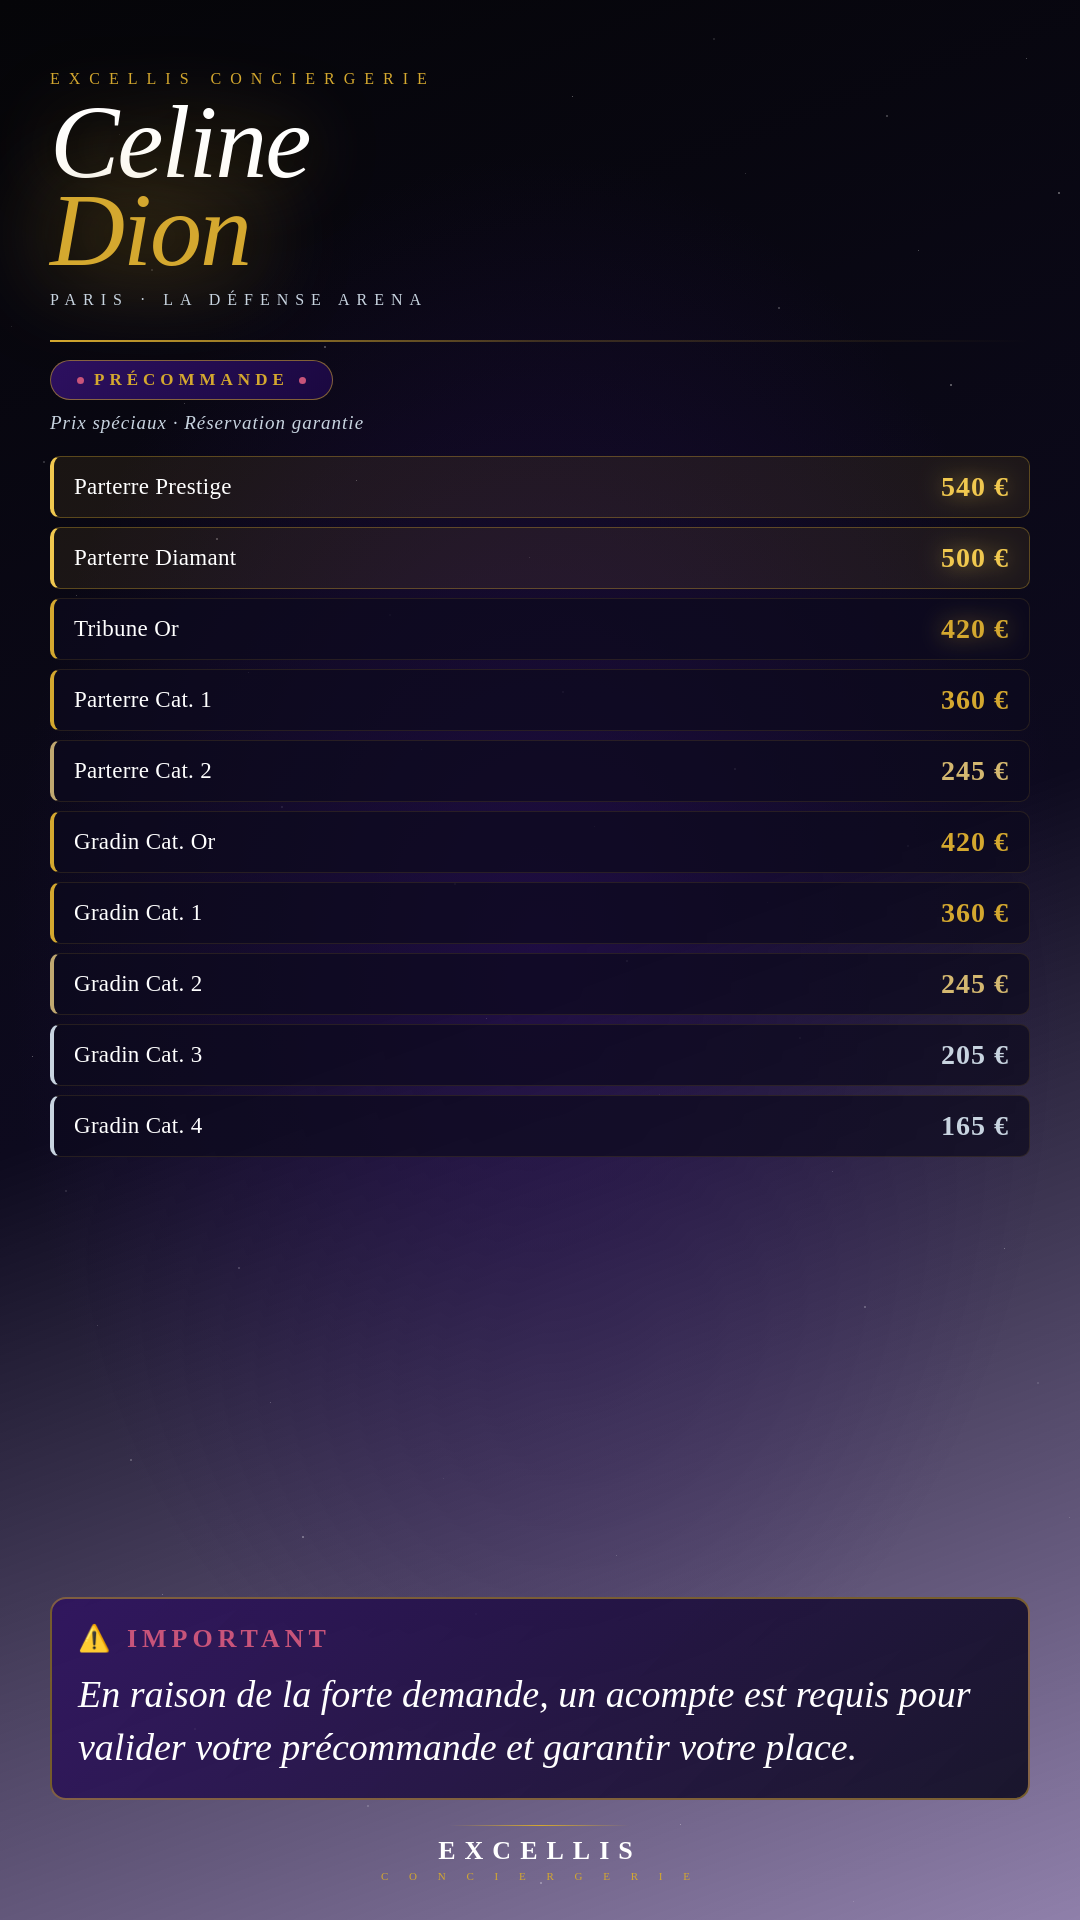
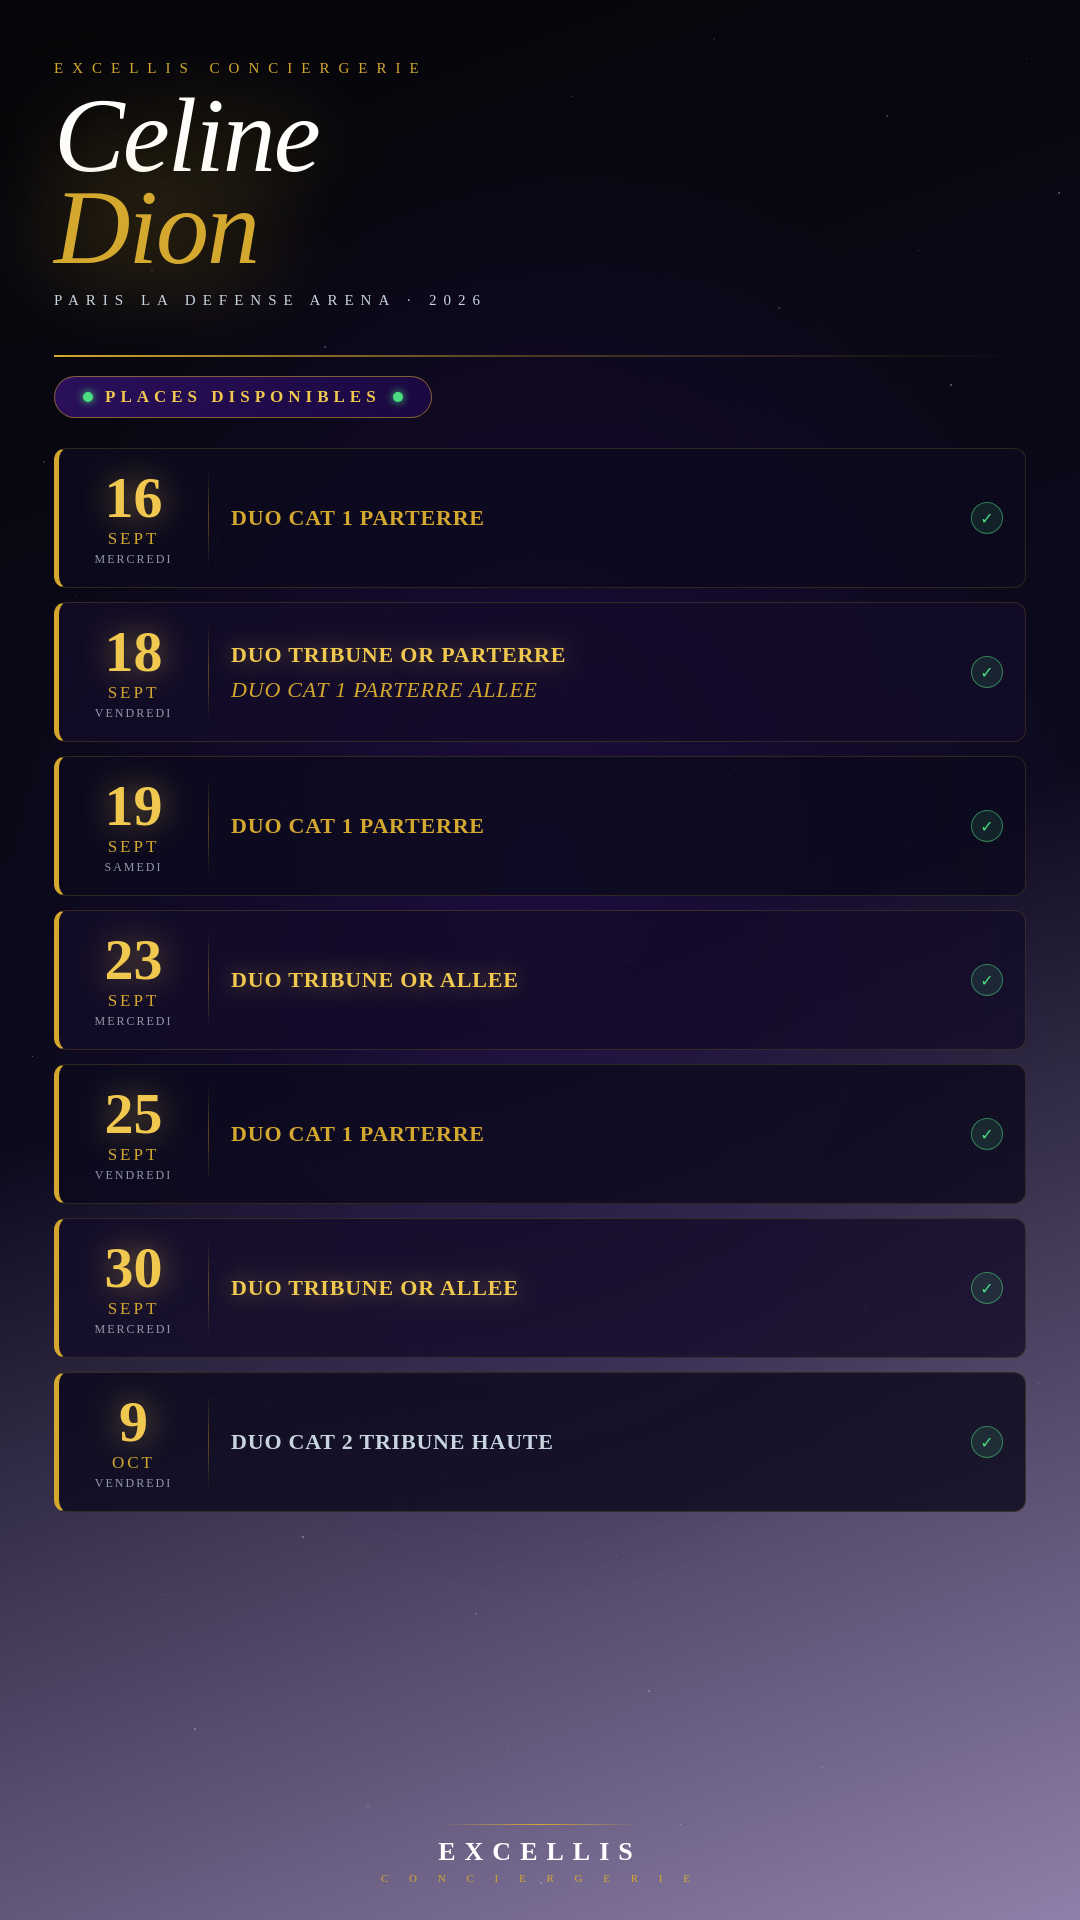
feat: poster Céline Dion places disponibles par date (v6)
Remplace le tableau de prix par les 7 dates avec les types de billets DUO disponibles.

https://claude.ai/code/session_014uMGEqSPpnhtawxAyG3qPw

diff --git a/src/CelineDionPoster.jsx b/src/CelineDionPoster.jsx
@@ -1,7 +1,7 @@
-// CelineDionPoster.jsx — Affiche tarifs précommande v2
+// CelineDionPoster.jsx — Affiche places disponibles v6
 // Format: 1080x1920 portrait
 
-import { AbsoluteFill, staticFile } from "remotion";
+import { AbsoluteFill } from "remotion";
 
 const BLACK   = "#050508";
 const DEEP    = "#0D0A1E";
@@ -10,23 +10,30 @@ const GOLD    = "#D4A82F";
 const GOLD_LT = "#F0C84F";
 const WHITE   = "#FFFFFF";
 const SILVER  = "#C8D4E0";
-const ROSE    = "#C8547A";
+const GREEN   = "#4ADE80";
 
-const prices = [
-  { cat: "Parterre Prestige",  price: "540 €", tier: "S" },
-  { cat: "Parterre Diamant",   price: "500 €", tier: "S" },
-  { cat: "Tribune Or",         price: "420 €", tier: "A" },
-  { cat: "Parterre Cat. 1",    price: "360 €", tier: "A" },
-  { cat: "Parterre Cat. 2",    price: "245 €", tier: "B" },
-  { cat: "Gradin Cat. Or",     price: "420 €", tier: "A" },
-  { cat: "Gradin Cat. 1",      price: "360 €", tier: "A" },
-  { cat: "Gradin Cat. 2",      price: "245 €", tier: "B" },
-  { cat: "Gradin Cat. 3",      price: "205 €", tier: "C" },
-  { cat: "Gradin Cat. 4",      price: "165 €", tier: "C" },
+const dates = [
+  { day: "16", month: "SEPT", dow: "MERCREDI",
+    tickets: ["DUO CAT 1 PARTERRE"] },
+  { day: "18", month: "SEPT", dow: "VENDREDI",
+    tickets: ["DUO TRIBUNE OR PARTERRE", "DUO CAT 1 PARTERRE ALLEE"] },
+  { day: "19", month: "SEPT", dow: "SAMEDI",
+    tickets: ["DUO CAT 1 PARTERRE"] },
+  { day: "23", month: "SEPT", dow: "MERCREDI",
+    tickets: ["DUO TRIBUNE OR ALLEE"] },
+  { day: "25", month: "SEPT", dow: "VENDREDI",
+    tickets: ["DUO CAT 1 PARTERRE"] },
+  { day: "30", month: "SEPT", dow: "MERCREDI",
+    tickets: ["DUO TRIBUNE OR ALLEE"] },
+  { day: "9",  month: "OCT",  dow: "VENDREDI",
+    tickets: ["DUO CAT 2 TRIBUNE HAUTE"] },
 ];
 
-const tierLeft  = { S: GOLD_LT, A: GOLD, B: "#C0A870", C: SILVER };
-const tierPrice = { S: GOLD_LT, A: GOLD, B: "#D4B870", C: SILVER };
+const ticketColor = (t) => {
+  if (t.includes("TRIBUNE OR")) return GOLD_LT;
+  if (t.includes("CAT 1"))      return GOLD;
+  return SILVER;
+};
 
 export const CelineDionPoster = () => (
   <AbsoluteFill style={{
@@ -35,7 +42,7 @@ export const CelineDionPoster = () => (
     fontFamily: "Georgia, 'Times New Roman', serif",
   }}>
 
-    {/* ── Étoiles fond ── */}
+    {/* Stars */}
     {Array.from({ length: 60 }, (_, i) => (
       <div key={i} style={{
         position: "absolute",
@@ -43,130 +50,148 @@ export const CelineDionPoster = () => (
         top:  `${(i * 37 +  7) % 100}%`,
         width: 1 + (i % 2), height: 1 + (i % 2),
         borderRadius: "50%", background: WHITE,
-        opacity: 0.15 + (i % 5) * 0.07,
+        opacity: 0.12 + (i % 5) * 0.06,
       }} />
     ))}
 
-    {/* ── Spotlight vertical ── */}
+    {/* Spotlight */}
     <div style={{
       position: "absolute", top: -300, left: "50%",
       transform: "translateX(-50%)",
       width: 900, height: 2200,
-      background: "conic-gradient(from -18deg at 50% 0%, transparent 0deg, rgba(255,245,200,0.055) 18deg, transparent 36deg)",
+      background: "conic-gradient(from -18deg at 50% 0%, transparent 0deg, rgba(255,245,200,0.05) 18deg, transparent 36deg)",
     }} />
 
-    {/* ── Glow central décoratif ── */}
+    {/* Glow */}
     <div style={{
       position: "absolute", inset: 0, zIndex: 1,
-      background: "radial-gradient(ellipse 70% 60% at 50% 50%, rgba(45,16,96,0.55) 0%, transparent 70%)",
+      background: "radial-gradient(ellipse 70% 55% at 50% 45%, rgba(45,16,96,0.5) 0%, transparent 70%)",
     }} />
 
-    {/* ═══════════════ CONTENU ═══════════════ */}
+    {/* ── HEADER ── */}
+    <div style={{ position: "absolute", top: 60, left: 54, right: 54, zIndex: 4 }}>
 
-    {/* ── En-tête ── */}
-    <div style={{ position: "absolute", top: 70, left: 50, right: 50, zIndex: 4 }}>
-      <div style={{ fontSize: 16, color: GOLD, letterSpacing: 9, marginBottom: 10 }}>
+      <div style={{ fontSize: 15, color: GOLD, letterSpacing: 9, marginBottom: 14 }}>
         EXCELLIS CONCIERGERIE
       </div>
 
       <div style={{
-        fontSize: 104, color: WHITE, lineHeight: 0.85, fontStyle: "italic", letterSpacing: -2,
-        textShadow: `0 0 80px rgba(212,168,47,0.4), 0 4px 30px rgba(0,0,0,0.97)`,
+        fontSize: 106, color: WHITE, lineHeight: 0.85,
+        fontStyle: "italic", letterSpacing: -2,
+        textShadow: "0 0 80px rgba(212,168,47,0.4), 0 4px 30px rgba(0,0,0,0.95)",
       }}>Celine</div>
       <div style={{
-        fontSize: 104, color: GOLD, lineHeight: 0.85, fontStyle: "italic", letterSpacing: -2,
-        textShadow: `0 0 100px rgba(212,168,47,1), 0 4px 30px rgba(0,0,0,0.97)`,
+        fontSize: 106, color: GOLD, lineHeight: 0.88,
+        fontStyle: "italic", letterSpacing: -2,
+        textShadow: "0 0 100px rgba(212,168,47,0.9), 0 4px 30px rgba(0,0,0,0.95)",
       }}>Dion</div>
 
-      <div style={{ marginTop: 16, fontSize: 16, color: SILVER, letterSpacing: 7 }}>
-        PARIS · LA DÉFENSE ARENA
+      <div style={{ marginTop: 18, fontSize: 15, color: SILVER, letterSpacing: 7 }}>
+        PARIS LA DEFENSE ARENA · 2026
       </div>
     </div>
 
-    {/* ── Ligne séparatrice ── */}
+    {/* Separator */}
     <div style={{
-      position: "absolute", top: 340, left: 50, right: 50, height: 1.5, zIndex: 4,
-      background: `linear-gradient(90deg, ${GOLD}, rgba(212,168,47,0.25), transparent)`,
+      position: "absolute", top: 355, left: 54, right: 54, height: 1.5, zIndex: 4,
+      background: `linear-gradient(90deg, ${GOLD}, rgba(212,168,47,0.3), transparent)`,
     }} />
 
-    {/* ── Badge PRÉCOMMANDE ── */}
-    <div style={{ position: "absolute", top: 360, left: 50, zIndex: 4 }}>
+    {/* Badge PLACES DISPONIBLES */}
+    <div style={{ position: "absolute", top: 376, left: 54, zIndex: 4 }}>
       <div style={{
-        display: "inline-flex", alignItems: "center", gap: 10,
-        padding: "9px 26px",
-        background: `linear-gradient(135deg, ${PURPLE}, #1A0840)`,
-        border: `1px solid rgba(212,168,47,0.55)`, borderRadius: 30,
+        display: "inline-flex", alignItems: "center", gap: 12,
+        padding: "10px 28px",
+        background: "linear-gradient(135deg, rgba(45,16,96,0.95), rgba(26,8,64,0.98))",
+        border: "1px solid rgba(212,168,47,0.55)", borderRadius: 30,
       }}>
-        <div style={{ width: 7, height: 7, borderRadius: "50%", background: ROSE }} />
-        <div style={{ fontSize: 17, color: GOLD, letterSpacing: 5, fontWeight: "bold" }}>
-          PRÉCOMMANDE
+        <div style={{ width: 10, height: 10, borderRadius: "50%", background: GREEN,
+          boxShadow: `0 0 8px ${GREEN}` }} />
+        <div style={{ fontSize: 17, color: GOLD_LT, letterSpacing: 5, fontWeight: "bold" }}>
+          PLACES DISPONIBLES
         </div>
-        <div style={{ width: 7, height: 7, borderRadius: "50%", background: ROSE }} />
+        <div style={{ width: 10, height: 10, borderRadius: "50%", background: GREEN,
+          boxShadow: `0 0 8px ${GREEN}` }} />
       </div>
     </div>
 
-    {/* ── Prix pour les précommandes ── */}
-    <div style={{
-      position: "absolute", top: 412, left: 50, zIndex: 4,
-      fontSize: 19, color: SILVER, fontStyle: "italic", letterSpacing: 1,
-    }}>
-      Prix spéciaux · Réservation garantie
-    </div>
-
-    {/* ── Tableau des prix ── */}
-    <div style={{ position: "absolute", top: 456, left: 50, right: 50, zIndex: 4 }}>
-      {prices.map((p, i) => (
+    {/* ── DATE ROWS ── */}
+    <div style={{ position: "absolute", top: 448, left: 54, right: 54, zIndex: 4 }}>
+      {dates.map((d, i) => (
         <div key={i} style={{
           display: "flex",
-          justifyContent: "space-between",
           alignItems: "center",
-          padding: "14px 20px",
-          marginBottom: 9,
-          background: i < 2
-            ? "rgba(212,168,47,0.09)"
-            : "rgba(13,10,30,0.72)",
-          border: `1px solid rgba(212,168,47,${i < 2 ? "0.35" : "0.13"})`,
-          borderLeft: `4px solid ${tierLeft[p.tier]}`,
-          borderRadius: 10,
+          padding: "20px 22px",
+          marginBottom: 14,
+          background: i % 2 === 0
+            ? "rgba(13,10,30,0.82)"
+            : "rgba(20,12,40,0.78)",
+          border: "1px solid rgba(212,168,47,0.18)",
+          borderLeft: `5px solid ${GOLD}`,
+          borderRadius: 12,
+          gap: 22,
         }}>
-          <div style={{ fontSize: 23, color: WHITE, letterSpacing: 0.3 }}>
-            {p.cat}
+
+          {/* Date block */}
+          <div style={{ minWidth: 105, textAlign: "center", flexShrink: 0 }}>
+            <div style={{
+              fontSize: 58, color: GOLD_LT, fontWeight: "bold", lineHeight: 1,
+              textShadow: "0 0 30px rgba(240,200,79,0.5)",
+            }}>{d.day}</div>
+            <div style={{ fontSize: 17, color: GOLD, letterSpacing: 3, marginTop: 2 }}>{d.month}</div>
+            <div style={{ fontSize: 12, color: SILVER, letterSpacing: 2, opacity: 0.7, marginTop: 3 }}>{d.dow}</div>
           </div>
+
+          {/* Vertical divider */}
           <div style={{
-            fontSize: 28, fontWeight: "bold", letterSpacing: 1,
-            color: tierPrice[p.tier],
-            textShadow: i < 3 ? `0 0 22px ${tierPrice[p.tier]}99` : "none",
-          }}>
-            {p.price}
+            width: 1, alignSelf: "stretch",
+            background: "linear-gradient(180deg, transparent, rgba(212,168,47,0.4), transparent)",
+            flexShrink: 0,
+          }} />
+
+          {/* Ticket list */}
+          <div style={{ flex: 1 }}>
+            {d.tickets.map((t, j) => (
+              <div key={j} style={{
+                fontSize: 22,
+                color: ticketColor(t),
+                letterSpacing: 0.8,
+                lineHeight: 1.6,
+                fontWeight: j === 0 ? "bold" : "normal",
+                fontStyle: j > 0 ? "italic" : "normal",
+                textShadow: j === 0 && t.includes("TRIBUNE OR")
+                  ? "0 0 20px rgba(240,200,79,0.45)"
+                  : "none",
+              }}>{t}</div>
+            ))}
           </div>
+
+          {/* Check mark */}
+          <div style={{
+            width: 32, height: 32, borderRadius: "50%", flexShrink: 0,
+            background: "rgba(74,222,128,0.12)",
+            border: "1.5px solid rgba(74,222,128,0.5)",
+            display: "flex", alignItems: "center", justifyContent: "center",
+            fontSize: 16, color: GREEN,
+          }}>✓</div>
+
         </div>
       ))}
     </div>
 
-    {/* ── Note importante ── */}
+    {/* ── FOOTER ── */}
     <div style={{
-      position: "absolute", bottom: 120, left: 50, right: 50, zIndex: 4,
-      padding: "24px 26px",
-      background: `linear-gradient(135deg, rgba(45,16,96,0.82), rgba(13,10,30,0.88))`,
-      border: `2px solid rgba(212,168,47,0.5)`,
-      borderRadius: 16,
-    }}>
-      <div style={{ fontSize: 26, color: ROSE, letterSpacing: 5, marginBottom: 14, fontWeight: "bold" }}>
-        ⚠ IMPORTANT
-      </div>
-      <div style={{ fontSize: 38, color: WHITE, lineHeight: 1.4, fontStyle: "italic" }}>
-        En raison de la forte demande, un acompte est requis pour valider votre précommande et garantir votre place.
-      </div>
-    </div>
-
-    {/* ── Footer EXCELLIS ── */}
-    <div style={{
-      position: "absolute", bottom: 38, left: 0, right: 0,
+      position: "absolute", bottom: 36, left: 0, right: 0,
       display: "flex", flexDirection: "column", alignItems: "center", zIndex: 4,
     }}>
-      <div style={{ width: 180, height: 1.5, background: `linear-gradient(90deg, transparent, ${GOLD}, transparent)`, marginBottom: 10 }} />
+      <div style={{
+        width: 200, height: 1.5, marginBottom: 12,
+        background: `linear-gradient(90deg, transparent, ${GOLD}, transparent)`,
+      }} />
       <div style={{ fontSize: 26, color: WHITE, letterSpacing: 9, fontWeight: "bold" }}>EXCELLIS</div>
-      <div style={{ fontSize: 11, color: GOLD, letterSpacing: 9, marginTop: 4 }}>C O N C I E R G E R I E</div>
+      <div style={{ fontSize: 11, color: GOLD, letterSpacing: 9, marginTop: 5 }}>
+        C O N C I E R G E R I E
+      </div>
     </div>
 
   </AbsoluteFill>
